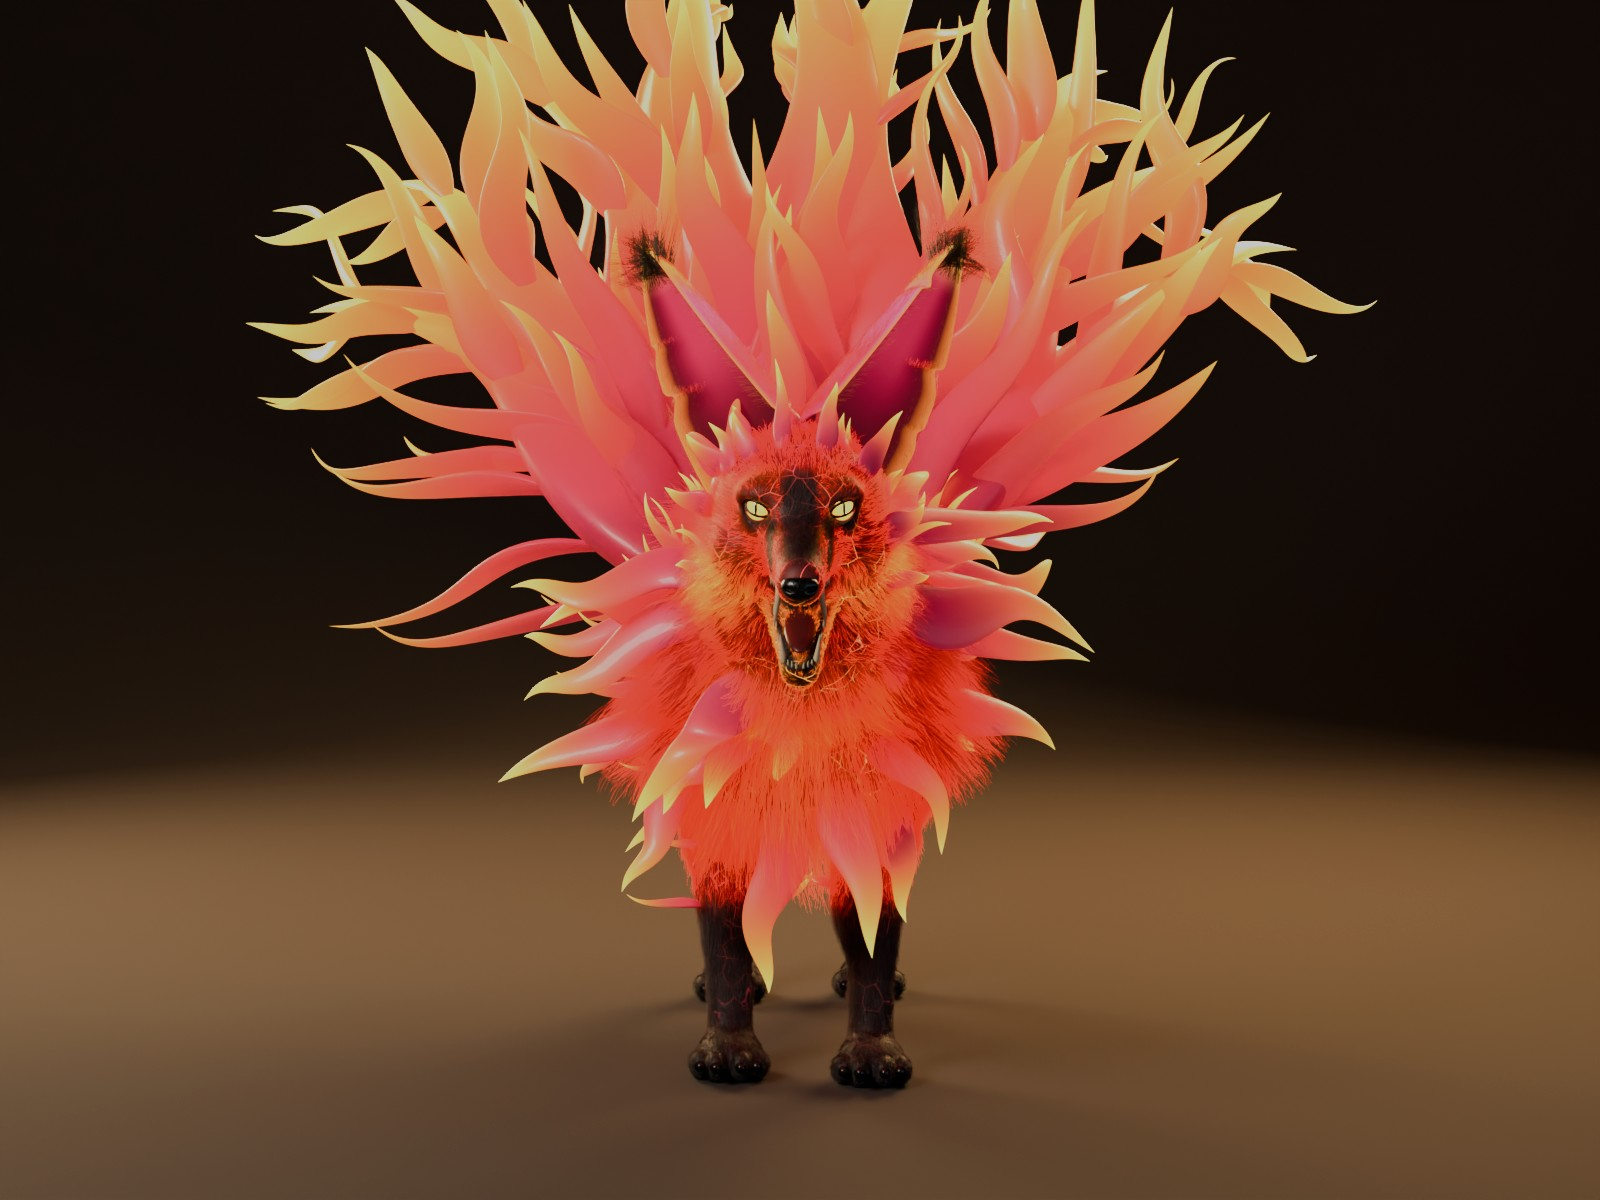
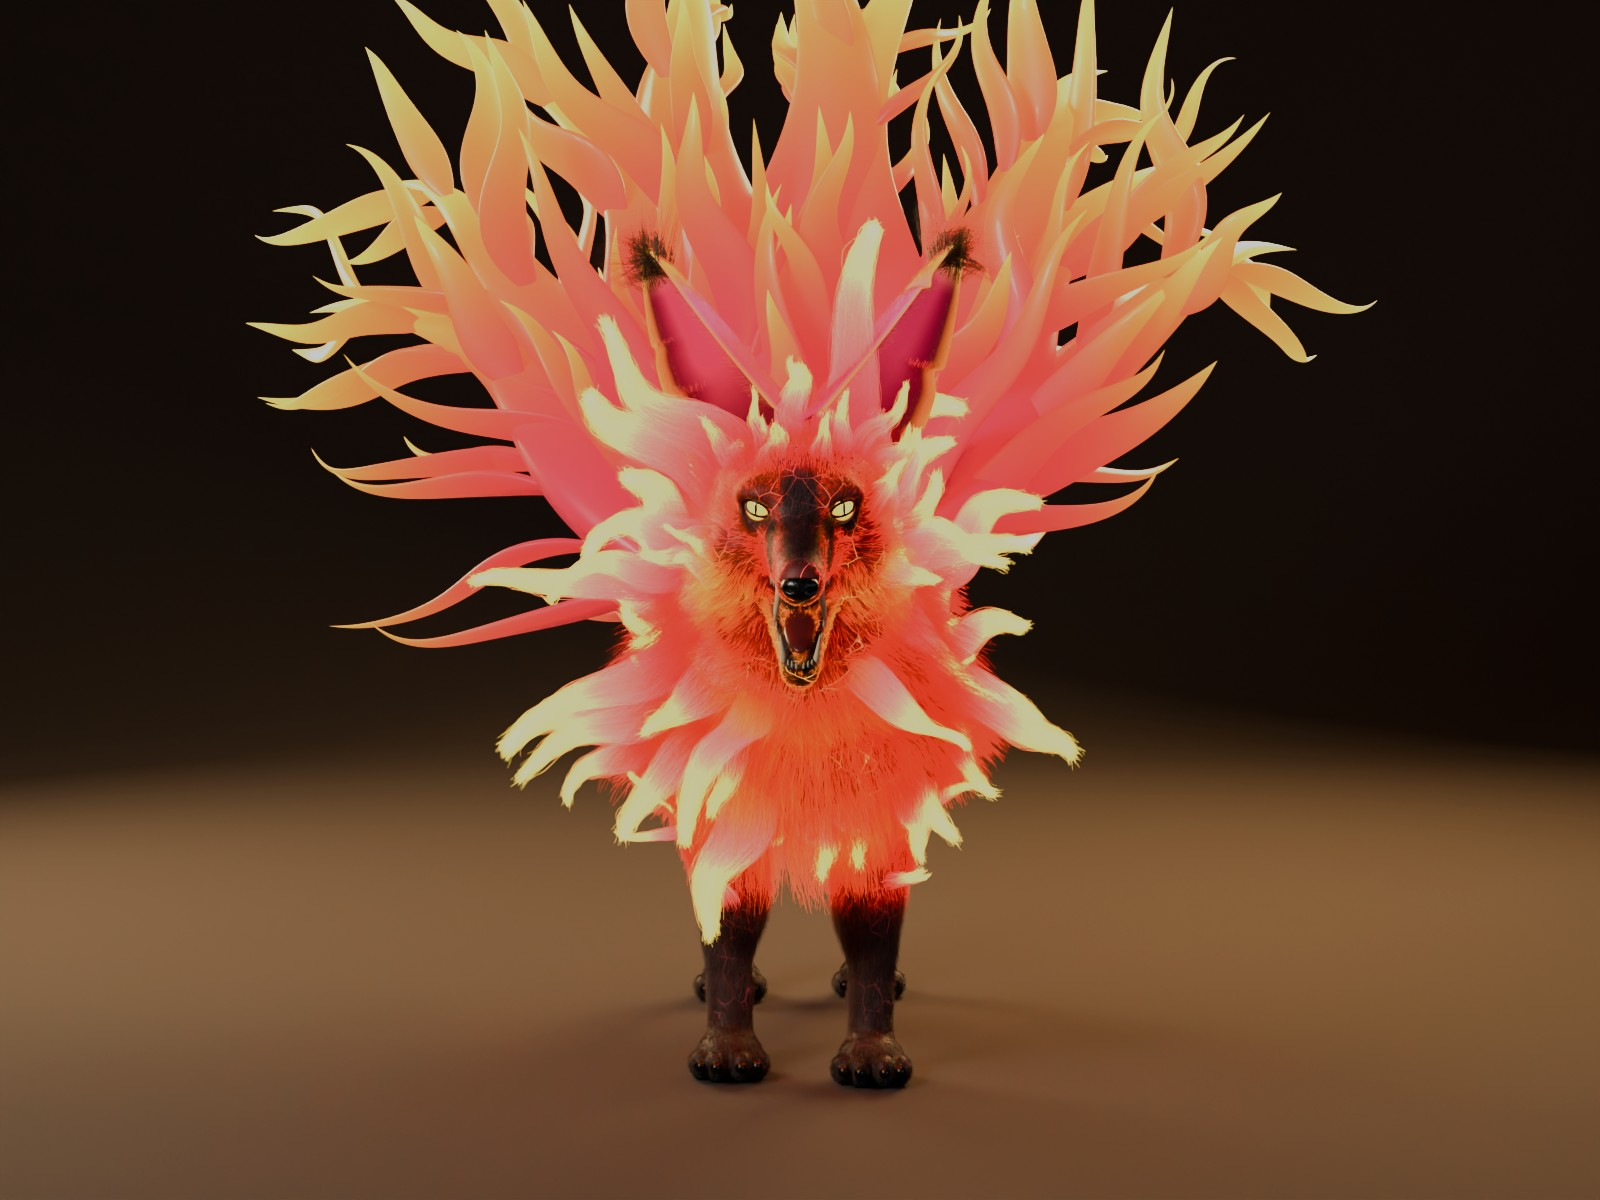
Fox: final renders with flame fur; Roblox keeps only tail and mane flames
Claude-Session: https://claude.ai/code/session_012qP3HjeP8o3GJHEY8QWVTp

Changed region(s): [[0.2812, 0.185, 0.6875, 0.8325]]

diff --git a/fox/desert_fox.py b/fox/desert_fox.py
@@ -2744,11 +2744,12 @@ def _distance_weights(obj, rig_bones, allowed, adjust=None):
 
 
 def create_roblox_flames(col, body_V, body_F, rng, out_dir):
-    """Low-poly flames (tails + coat flames) as their own mesh with a fire-gradient texture whose roots
+    """Low-poly flames (nine tails + mane) as their own mesh with a fire-gradient texture whose roots
     are transparent, so with SurfaceAppearance (AlphaMode = Transparency) they fade into the body."""
     parts = build_fire_tails(rng, K=8, segs=6, sub_locks=9, sub_K=6, sub_segs=5)
-    for kind, name, cnt, md in (("mane", "FireMane", 30, 0.026), ("body", "FireBody", 20, 0.036),
-                                ("legs", "FireLegs", 8, 0.030), ("head", "FireHead", 12, 0.015)):
+    # only the mane gets flame meshes in the game version; small low-poly flames on the body, legs and
+    # head read as spikes stuck into it, and the baked body texture already carries the fire colours
+    for kind, name, cnt, md in (("mane", "FireMane", 30, 0.026),):
         parts.append(specs_to_mesh(name, flame_specs(kind, body_V, body_F, rng, count=cnt, K=6, min_dist=md), 5))
     Vs, Fs, Gs, ids, names, off = [], [], [], [], [], 0
     for i, (name, V, F, g) in enumerate(parts):
